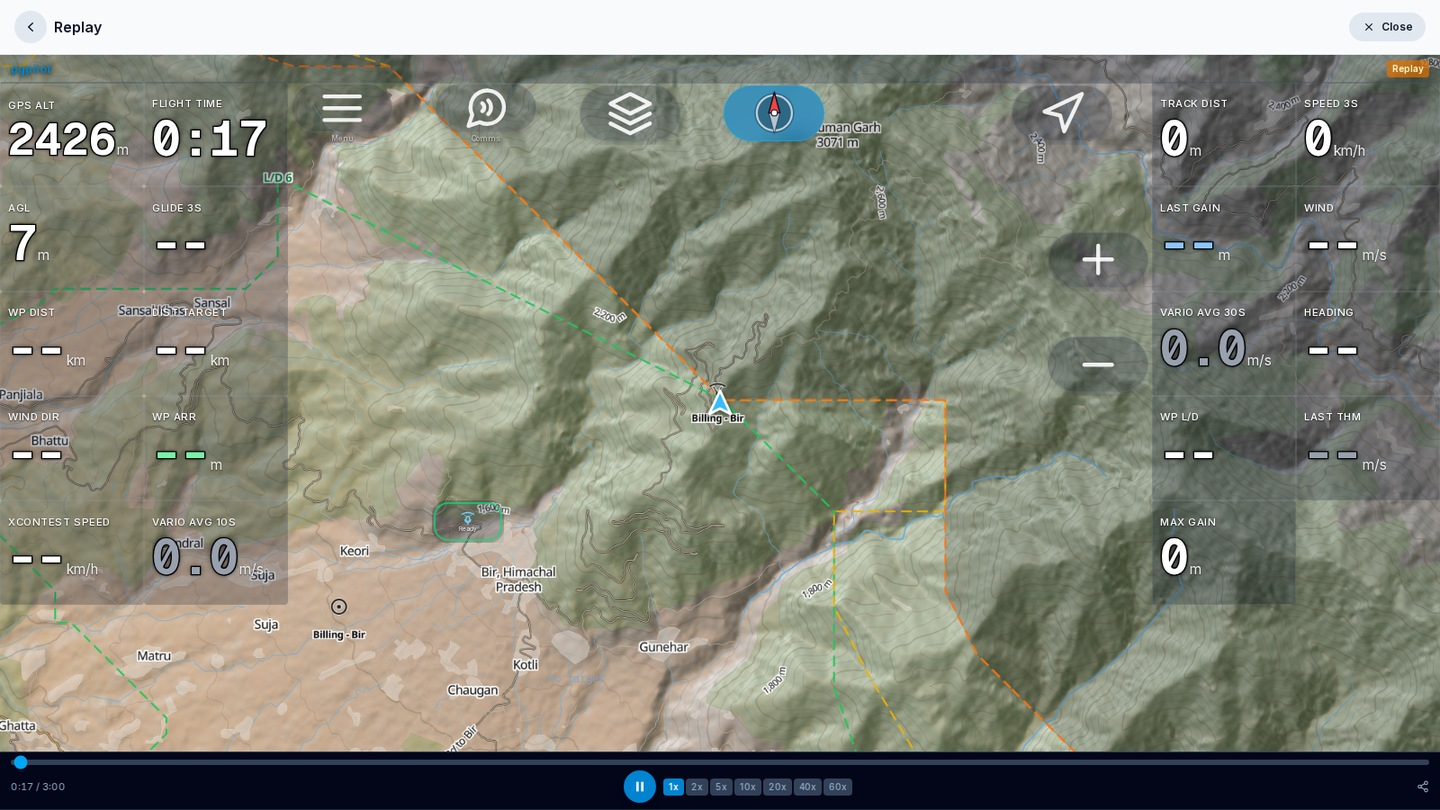
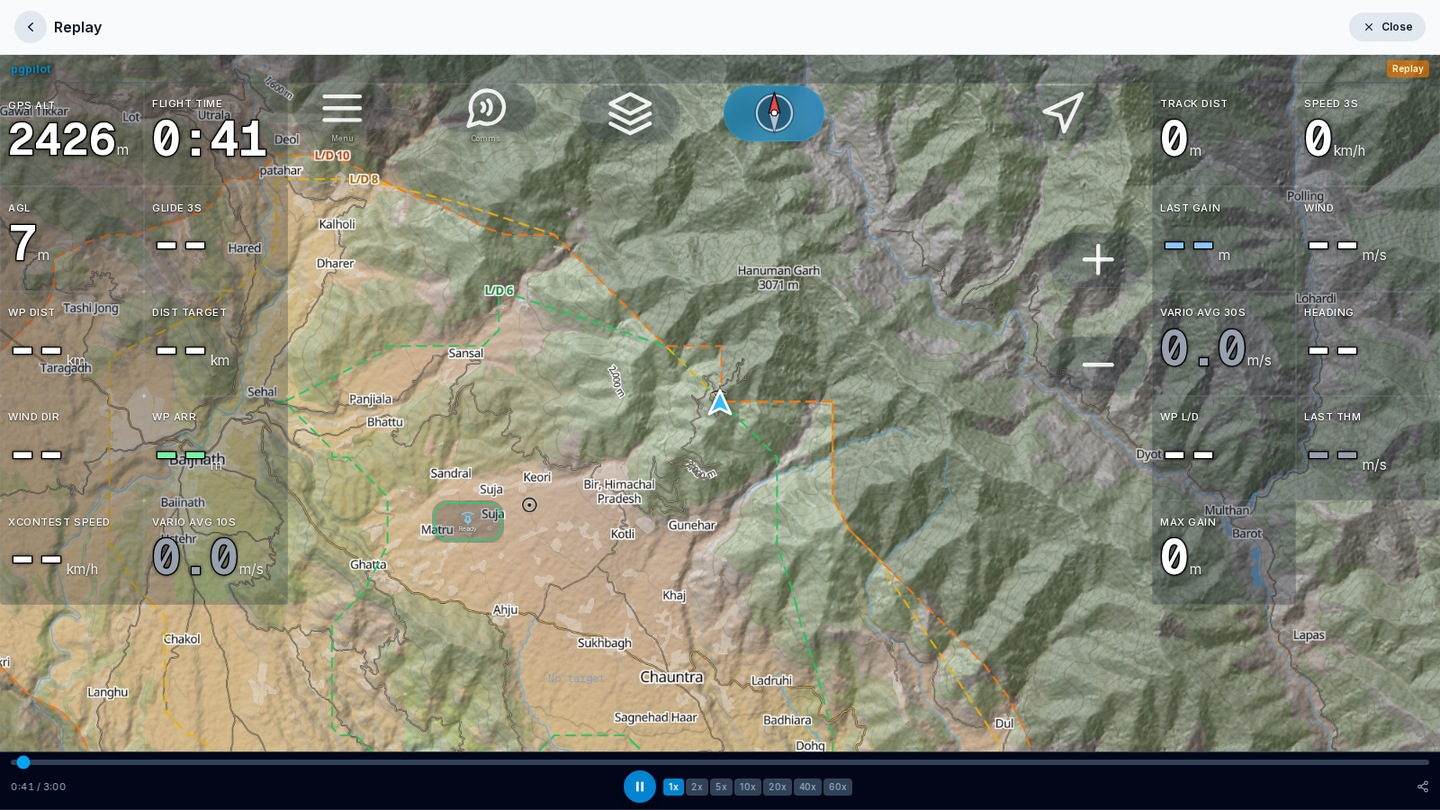
Zoom ut Bir-kartet og stram akt 3
Bir-kartet er zoomet to hakk ut, med terreng, hoydekoter og luftrom
ferdig lastet. Glidekjeglene L/D 6, 8 og 10 er synlige, som er en gratis
forsmak paa klipp 4.

Termikk-overlegget er paa. Det viser seg aa vaere KK7 sitt globale
termikkart, og det er paa som standard i koden, saa det var allerede
aktivt - det tegner bare tynt over Bir.

Akt 3 er strammet fra seks klipp til fire: vario, termikkboble og vindpil
hoerer til samme oyeblikk og er slaatt sammen til ett. Barogrammet heter
naa sideview. "Og saann ser det ut" er fjernet, siden "Last ned" alt
viser appen, og MANGLER-boksen paa gruppesliden er borte.

Skjermbildene er hentet uten aa roere kontoen: user_settings er blokkert
for alt annet enn GET, slik reels-skillen foreskriver.

diff --git a/docs/himalaya/voss.html b/docs/himalaya/voss.html
@@ -273,23 +273,6 @@ Simen Eide
           overflow: hidden!important;
           display:block!important;
       }</style></aside>
-</section>
-<section id="og-sånn-ser-det-ut-app" class="slide level2">
-<h2>Og sånn ser det ut <span class="where where-app">APP</span></h2>
-<img class="shot-big" src="img/app-instrument.jpg" alt="pgpilot i lufta">
-<aside class="notes">
-<p>Bildet ligger her som sikkerhetsnett. Planen er at du hopper INN i appen paa den speilede telefonen og viser det ekte, men hvis speilingen ryker har du dette.</p>
-<style type="text/css">
-        span.MJX_Assistive_MathML {
-          position:absolute!important;
-          clip: rect(1px, 1px, 1px, 1px);
-          padding: 1px 0 0 0!important;
-          border: 0!important;
-          height: 1px!important;
-          width: 1px!important;
-          overflow: hidden!important;
-          display:block!important;
-      }</style></aside>
 </section></section>
 <section>
 <section id="på-startplassen-i-billing" class="title-slide slide level1 act-divider center">
@@ -317,6 +300,9 @@ Simen Eide
 <aside class="notes">
 <p>Dette er appen som staar paa startplassen i Billing, 2424 moh, hentet fra pgpilot.app.</p>
 <p>Alt er ekte: terrenget, hoydekotene, stedsnavnene nedover mot Bir og Gunehar, og luftrommet i oransje og gult. Panelene rundt er instrumentet slik det ser ut i lufta.</p>
+<p>Zoomet to hakk ut, saa du ser dalen og fjellkjeden bak, ikke bare et utsnitt.</p>
+<p>Glidekjeglene er synlige: L/D 6, 8 og 10 som stiplede linjer. De sier hvor langt du rekker, og de er en gratis forsmak paa akt 3 klipp 4.</p>
+<p>Termikk-overlegget (KK7) er paa, men det tegner tynt akkurat her. Det er et globalt kart, saa dataene finnes, men Bir er ikke Alpene.</p>
 <p>Ikke snakk om startplassdatabasen. Bare la kartet staa og fortell hvor vi er.</p>
 <style type="text/css">
         span.MJX_Assistive_MathML {
@@ -358,9 +344,6 @@ Simen Eide
     <p class="join-url">pgpilot.app/join/<strong>voss</strong></p>
     <p class="join-sub">Skann, skriv navnet ditt, ferdig.</p>
   </div>
-</div>
-<div class="todo">
-<p>Bytt QR-en hvis du velger en annen kode enn “voss”.</p>
 </div>
 <aside class="notes">
 <p>Flyttet hit fra akt 1 med vilje: gruppa gir ingen mening for de har appen, og den hoerer sammen med PTT-demoen som kommer rett etterpaa.</p>
@@ -477,7 +460,7 @@ Simen Eide
 <section id="start-fra-billing-klipp" class="slide level2">
 <h2>1. Start fra Billing <span class="where where-clip">KLIPP</span></h2>
 <div class="clip-slot">
-<p>30 sek — soaring på frontryggen</p>
+<p>Klipp: selve starten, en som tar av</p>
 </div>
 <aside class="notes">
 <p>Her staar vi. Terrassene under, fjellet som fortsetter bakover.</p>
@@ -493,34 +476,15 @@ Simen Eide
           display:block!important;
       }</style></aside>
 </section>
-<section id="varioen-klipp" class="slide level2">
-<h2>2. Varioen <span class="where where-clip">KLIPP</span></h2>
-<div class="clip-slot">
-<p>25 sek — varioen som piper i en boble. LYD PÅ.</p>
-</div>
-<aside class="notes">
-<p>Dette er hele instrumentet. Det du horer er regnet ut fra trykk, ikke fra GPS.</p>
-<p>Dette ene klippet skal IKKE vaere muted.</p>
-<style type="text/css">
-        span.MJX_Assistive_MathML {
-          position:absolute!important;
-          clip: rect(1px, 1px, 1px, 1px);
-          padding: 1px 0 0 0!important;
-          border: 0!important;
-          height: 1px!important;
-          width: 1px!important;
-          overflow: hidden!important;
-          display:block!important;
-      }</style></aside>
-</section>
 <section id="termikkboblen-klipp" class="slide level2">
-<h2>3. Termikkboblen <span class="where where-clip">KLIPP</span></h2>
+<h2>2. Termikkboblen <span class="where where-clip">KLIPP</span></h2>
 <div class="clip-slot">
-<p>35 sek — boblen tegnes opp mens vi flyr</p>
+<p>Klipp: en boble der Thermal Overlay treffer. Vario, boble og vindpil i ett.</p>
 </div>
 <aside class="notes">
-<p>Den mest overbevisende enkeltbiten. Appen finner hvor det stiger mens du flyr, og husker det.</p>
-<p>Dette klippet og det neste er de to som selger appen.</p>
+<p>Den mest overbevisende enkeltbiten, og de tre tingene hoerer sammen i samme oyeblikk: varioen piper, appen tegner opp bobla, og vindpila strammer seg mens du sirkler.</p>
+<p>Si det som ett poeng: den vet ikke vinden naar du tar av. Den laerer den av sirklene dine, og den husker hvor det steg.</p>
+<p>Lyd paa dette klippet.</p>
 <style type="text/css">
         span.MJX_Assistive_MathML {
           position:absolute!important;
@@ -533,32 +497,13 @@ Simen Eide
           display:block!important;
       }</style></aside>
 </section>
-<section id="vindpila-klipp" class="slide level2">
-<h2>4. Vindpila <span class="where where-clip">KLIPP</span></h2>
+<section id="sideview-klipp" class="slide level2">
+<h2>3. Sideview <span class="where where-clip">KLIPP</span></h2>
 <div class="clip-slot">
-<p>30 sek — sirkling, og vindestimatet som strammer seg</p>
+<p>Klipp: sideview mens hoyden bygger seg</p>
 </div>
 <aside class="notes">
-<p>Den vet ikke vinden nar du tar av. Den laerer den av sirklene dine.</p>
-<style type="text/css">
-        span.MJX_Assistive_MathML {
-          position:absolute!important;
-          clip: rect(1px, 1px, 1px, 1px);
-          padding: 1px 0 0 0!important;
-          border: 0!important;
-          height: 1px!important;
-          width: 1px!important;
-          overflow: hidden!important;
-          display:block!important;
-      }</style></aside>
-</section>
-<section id="barogrammet-klipp" class="slide level2">
-<h2>5. Barogrammet <span class="where where-clip">KLIPP</span></h2>
-<div class="clip-slot">
-<p>25 sek — høydeprofilen som bygger seg</p>
-</div>
-<aside class="notes">
-<p>4677 meter pa det hoyeste. Der oppe er det kaldt og tynt.</p>
+<p>4677 meter paa det hoyeste. Der oppe er det kaldt og tynt.</p>
 <style type="text/css">
         span.MJX_Assistive_MathML {
           position:absolute!important;
@@ -572,9 +517,9 @@ Simen Eide
       }</style></aside>
 </section>
 <section id="hvor-langt-ned-er-det-til-noe-flatt-klipp" class="slide level2">
-<h2>6. Hvor langt ned er det til noe flatt? <span class="where where-clip">KLIPP</span></h2>
+<h2>4. Hvor langt ned er det til noe flatt? <span class="where where-clip">KLIPP</span></h2>
 <div class="clip-slot">
-<p>35 sek — glidetall og rekkevidde over terrenget</p>
+<p>Klipp: glidetall og rekkevidde over terrenget</p>
 </div>
 <aside class="notes">
 <p>Dette er ikke bare en feature, det er et SPORSMAL. Still det, la det henge, og ga til akt 4 uten a svare. Det er der historien snur.</p>
